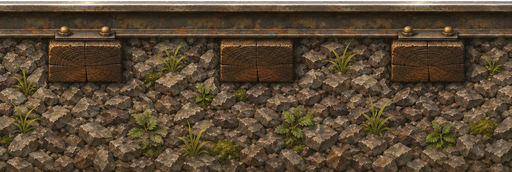
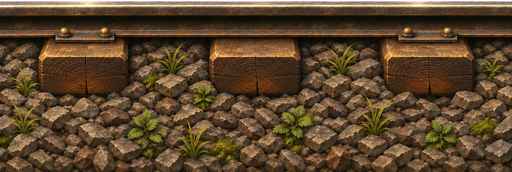
Комплект П4 «Депо как комната» для GPT; вариант тайла пути «объёмнее» принят; пожелание про объём в инструкции для GPT

diff --git a/tools/art_sources/briefs/P4_depot_room/BRIEF_RU.md b/tools/art_sources/briefs/P4_depot_room/BRIEF_RU.md
@@ -1,0 +1,98 @@
+# Комплект П4 «Депо как комната»: промпты для GPT
+
+Сейчас интерьер депо рисуется кодом: плоский градиент, «доски» полосками, тёмные стропила и лампы концентрическими кругами. Помещение читается как лесной путь со стеной, а не как мастерская.
+
+## Что сейчас не так (кадры в этой папке)
+
+- `ref_depot_now.jpg`: **красная рамка** это стена с лампами (то, что надо заменить), **синяя линия** это линия пола: ниже неё уже стоят новые рельс и земля из пакета «Дорога». Состав стоит на рельсе в левой половине экрана, справа панель с вкладками закрывает правую половину.
+- `ref_depot_exterior.jpg`: как депо выглядит снаружи (образец дерева, зелени и латуни).
+- `ref_style_steam.jpg`, `ref_style_handcar.jpg`: образцы стиля.
+
+**Важное требование (просьба владельца 04.11.2026): больше объёма.** Крупные, выпуклые формы, глубокие тени, чёткий рельеф дерева и металла, сильное различие света и тени, как в последнем тайле пути (`track_tile_depth`): он понравился больше плоского варианта. В каждый промпт это уже вписано.
+
+Как это работает в игре: интерьер собирается **слоями**, поэтому прошу не одну картинку, а пять частей: стена (бесшовная плитка), стропила (бесшовная полоса), предметы на стене и полу (лист 3×3), пол в разрезе (бесшовная полоса), свечение лампы (на чёрном).
+
+## Что сделать
+
+1. Новый чат. Если GPT читает репозиторий через подключение, фраза:
+
+```
+Открой в репозитории CPUadmin/ForestRail (ветка main) файл tools/art_sources/briefs/P4_depot_room/TASK_FOR_GPT.md, посмотри кадры ref_* рядом с ним и выполни задание: пять картинок по очереди.
+```
+
+2. Если картинки из репозитория он не открывает, приложите четыре файла `ref_*` из этой папки и вставьте блоки из `PROMPTS_FOR_GPT.txt`.
+3. Файлы `depot_wall_tile.png`, `depot_rafters_tile.png`, `depot_props_sheet.png`, `depot_floor_tile.png`, `depot_lamp_glow.png` сохраните в `tools/art_sources/inbox/P4_depot_room/`. Я увижу их сам.
+
+## Картинки
+
+### A1 `depot_wall_tile.png`: дощатая стена (3:2, на весь кадр, бесшовная)
+
+```text
+Attached are references for the pack "P4 depot room". ref_depot_now.jpg shows the game now: the RED box is the code-drawn interior wall with fake lamp glows (to be replaced by painted art), the BLUE line is the floor line. ref_depot_exterior.jpg is how the depot looks from outside. ref_style_steam.jpg and ref_style_handcar.jpg are the STYLE ANCHORS: match their painterly brush texture, warm worn look, palette and soft light exactly. The interior is built from LAYERS, so I will ask for five separate images one by one. ALL the art must have STRONG VOLUME: bold rounded relief, deep shadows between planks and beams, clearly lit and shaded sides, like the heavy relief of the latest track tile.
+```
+
+```text
+Asset: depot_wall_tile. Format: landscape 3:2. Full-bleed, no magenta, no background: the picture fills the whole frame.
+A SEAMLESSLY TILEABLE horizontal wall section of the inside of an old timber railway depot workshop, strict flat frontal elevation (no perspective): the left and right edges must continue into each other perfectly because the image repeats side by side.
+Content: heavy vertical pine planks, weathered honey-brown, with deep dark gaps between them, knots, cracks, nail heads, soot streaks and age marks, strong rounded relief, a clear light side and shade side on every plank; ONE massive vertical timber post centered exactly in the middle of the image (about 12 percent of the width wide) with an iron strap bracket and bolts, so that the repeat gives a post every tile; along the bottom edge a thick dark plinth board (skirting), about 8 percent of the frame height, with its lower edge exactly at the bottom of the image; the top edge of the image continues the planks upward without any ceiling.
+Warm lamplight from the upper left, a slightly darker lower third. Hand-painted, painterly brush texture, early 20th century Russian northern railway workshop, same style as the attached steam locomotive. No windows, no tools, no letters, no numbers, no people, nothing else on the wall.
+```
+Назначение: стена за составом вместо плоского градиента с полосками.
+
+### A2 `depot_rafters_tile.png`: стропила и балки потолка (3:2, пурпурный фон ниже балок, бесшовная)
+
+```text
+Asset: depot_rafters_tile. Format: landscape 3:2. Background: flat pure magenta #FF00FF below the beams, no shadow, no gradient.
+A SEAMLESSLY TILEABLE horizontal strip (left and right edges continue into each other perfectly) of the roof structure inside an old timber depot, strict flat frontal view, filling the full width edge to edge. The strip occupies only the TOP 38 percent of the frame; everything below is flat magenta.
+Content: at the very top a dark roof boards ceiling, below it one heavy horizontal crossbeam (tie beam) running across the whole width, about 12 percent of the frame height, with chamfered edges, iron straps and bolts; at the center of the tile a heavy king-post truss: two thick diagonal braces going from the beam down and outwards to the sides, ending in iron brackets at 25 and 75 percent of the width, and a vertical hanging iron ring in the middle where a lamp is hung. STRONG VOLUME: deep shadows under the beam, rounded relief of the wood, clearly lit upper left sides. Warm weathered dark brown and honey wood, soot. Hand-painted, painterly brush texture, same style as the attached references. No letters, nothing else.
+```
+Назначение: стропила вместо тёмных треугольников и полосы.
+
+### A3 `depot_props_sheet.png`: предметы мастерской (лист 3×3, пурпурный фон)
+
+```text
+Asset: depot_props_sheet. Format: square 1:1. Sheet 3 by 3, one flat pure magenta #FF00FF background for the whole sheet, exactly nine objects, one per cell, centered, same scale family, wide margins, no overlaps, no cell lines, no labels, no ground shadows.
+Nine objects of an old railway workshop, each in strict flat frontal or side view, hand-painted, painterly, warm and slightly worn, with STRONG VOLUME (bold rounded relief, deep shadows, clear lit and shaded sides), same style as the attached references:
+1 a tall wooden window in a heavy frame with small panes, warm daylight glowing through, with a stone sill;
+2 a hanging industrial lamp: a conical dark green enamel shade with a brass cap on a short chain, a warm bulb glowing inside;
+3 a wooden wall shelf with oil cans, a brass funnel, jars of bolts and a coil of rope;
+4 a wall tool rack with a big wrench, a hammer, a long saw and a crowbar hung on pegs;
+5 a heavy workbench with a cast-iron vise, a wooden top and a drawer, seen from the front;
+6 a wooden barrel with iron hoops and a tin funnel on top;
+7 a wooden ladder leaning, seen from the side;
+8 a stack of three spare railway wheels with spokes leaning on a wooden crate;
+9 a hanging coil of heavy chain on a hook with a hook block.
+No letters, no numbers, no people.
+```
+Назначение: окно, лампа, полка, инструменты, верстак, бочка, лестница, колёса, цепь: я расставляю их по стене и полу в свободных от панелей местах.
+
+### A4 `depot_floor_tile.png`: пол в разрезе (3:2, пурпурный фон над полом, бесшовный)
+
+```text
+Asset: depot_floor_tile. Format: landscape 3:2. Background: flat pure magenta #FF00FF above the floor surface only, no shadow.
+A SEAMLESSLY TILEABLE horizontal strip (left and right edges continue into each other perfectly): the cut of the floor of an old railway depot workshop, strict flat side elevation, filling the full width edge to edge. The top edge is the flat floor surface, a perfectly straight horizontal line, against pure magenta above it.
+From the top down: a heavy worn plank floor, the thick plank ends seen as a row of rectangles with deep dark gaps, oil stains, scratches, iron nails and a few cracked boards, about 20 percent of the frame height; below it big stone foundation blocks with mortar joints and moss in the joints, then darker packed earth and gravel, getting gradually darker towards the bottom edge so that it can fade into shadow. STRONG VOLUME: deep shadows in the gaps, rounded relief of the wood and the stones, light from the upper left. Hand-painted, painterly brush texture, same style as the attached references. No rails, no letters, nothing else.
+```
+Назначение: пол внутри депо вместо земли с травой (рельс остаётся из пакета «Дорога»).
+
+### A5 `depot_lamp_glow.png`: свет лампы (квадрат, чёрный фон)
+
+```text
+Asset: depot_lamp_glow. Format: square 1:1. Background: flat pure black #000000.
+A soft warm round light pool as cast by a hanging workshop lamp on a wooden wall: a bright warm white-yellow core in the center, fading smoothly through amber to nothing at the edges, with faint soft dust motes and a gentle slightly uneven edge, no hard shapes, perfectly centered and symmetrical, fully faded to pure black before it reaches the frame edges. Painterly, no lamp, no objects, no letters.
+```
+Назначение: настоящий мягкий свет под лампой вместо концентрических кругов (чёрное станет прозрачностью).
+
+## Чек-лист приёмки пакета
+
+1. Нет букв и цифр.
+2. **A1:** на всю картинку, пурпурного нет; один столб строго по центру; низ с цоколем; шов по краям стыкуется.
+3. **A2:** балки только в верхней трети, ниже пурпурный; шов стыкуется.
+4. **A3:** ровно девять предметов по одному в ячейке.
+5. **A4:** сверху ровная линия пола на пурпурном; ниже доски, камень, земля; внизу темнее.
+6. **A5:** светлое пятно на чёрном, до краёв гаснет.
+7. Выраженный объём и рельеф у всех, стиль как у образцов. Если что-то не так, одной фразой из `docs/GPT_ART_BRIEF_RU.md`, раздел 10.
+
+## Что делаю я после получения
+
+Принимаю (вырезаю фон, сглаживаю шов, режу лист), делаю в депо слои: стена с потолком и стропилами, пол в разрезе по линии пола, предметы по свободным местам (не под карточкой и панелью), лампа с настоящим светом; проверяю в трёх размерах окна, показываю кадры «до и после».

diff --git a/tools/art_sources/briefs/P4_depot_room/TASK_FOR_GPT.md b/tools/art_sources/briefs/P4_depot_room/TASK_FOR_GPT.md
@@ -1,0 +1,90 @@
+# TASK FOR GPT: pack П4 (Депо как комната)
+
+You are the art generator for "Лесная колея" (Forest Rail), a cozy 2D side-view narrow-gauge forest railway game. Produce the images below ONE BY ONE, one finished image per message, following the style rules in the project instructions (hand-painted painterly look, warm and slightly worn, forest green #466c51, charcoal steel #29383b, honey wood, cream #f5ecd6, aged brass #bb964f, soft light from the upper left, strict flat side view, no letters or numbers, subject centered with margins, flat pure magenta #FF00FF background unless another is named, no shadows or glow touching the background).
+
+## References
+Open each reference (or use the files the owner attached). The two ref_style_* images are the STYLE ANCHORS; match them exactly.
+
+If you read the repository through a GitHub connection, the same files are in the repo at tools/art_sources/briefs/P4_depot_room/ :
+
+- tools/art_sources/briefs/P4_depot_room/ref_depot_exterior.jpg
+- tools/art_sources/briefs/P4_depot_room/ref_depot_now.jpg
+- tools/art_sources/briefs/P4_depot_room/ref_style_handcar.jpg
+- tools/art_sources/briefs/P4_depot_room/ref_style_steam.jpg
+
+If the repository is public, the direct links are:
+
+- https://raw.githubusercontent.com/CPUadmin/ForestRail/main/tools/art_sources/briefs/P4_depot_room/ref_depot_exterior.jpg
+- https://raw.githubusercontent.com/CPUadmin/ForestRail/main/tools/art_sources/briefs/P4_depot_room/ref_depot_now.jpg
+- https://raw.githubusercontent.com/CPUadmin/ForestRail/main/tools/art_sources/briefs/P4_depot_room/ref_style_handcar.jpg
+- https://raw.githubusercontent.com/CPUadmin/ForestRail/main/tools/art_sources/briefs/P4_depot_room/ref_style_steam.jpg
+
+## First message of the pack
+
+```text
+Attached are references for the pack "P4 depot room". ref_depot_now.jpg shows the game now: the RED box is the code-drawn interior wall with fake lamp glows (to be replaced by painted art), the BLUE line is the floor line. ref_depot_exterior.jpg is how the depot looks from outside. ref_style_steam.jpg and ref_style_handcar.jpg are the STYLE ANCHORS: match their painterly brush texture, warm worn look, palette and soft light exactly. The interior is built from LAYERS, so I will ask for five separate images one by one. ALL the art must have STRONG VOLUME: bold rounded relief, deep shadows between planks and beams, clearly lit and shaded sides, like the heavy relief of the latest track tile.
+```
+
+## Images
+
+### 1. depot_wall_tile.png
+
+Format: 3:2. Background: full-bleed.
+
+```text
+Asset: depot_wall_tile. Format: landscape 3:2. Full-bleed, no magenta, no background: the picture fills the whole frame.
+A SEAMLESSLY TILEABLE horizontal wall section of the inside of an old timber railway depot workshop, strict flat frontal elevation (no perspective): the left and right edges must continue into each other perfectly because the image repeats side by side.
+Content: heavy vertical pine planks, weathered honey-brown, with deep dark gaps between them, knots, cracks, nail heads, soot streaks and age marks, strong rounded relief, a clear light side and shade side on every plank; ONE massive vertical timber post centered exactly in the middle of the image (about 12 percent of the width wide) with an iron strap bracket and bolts, so that the repeat gives a post every tile; along the bottom edge a thick dark plinth board (skirting), about 8 percent of the frame height, with its lower edge exactly at the bottom of the image; the top edge of the image continues the planks upward without any ceiling.
+Warm lamplight from the upper left, a slightly darker lower third. Hand-painted, painterly brush texture, early 20th century Russian northern railway workshop, same style as the attached steam locomotive. No windows, no tools, no letters, no numbers, no people, nothing else on the wall.
+```
+
+### 2. depot_rafters_tile.png
+
+Format: 3:2. Background: magenta.
+
+```text
+Asset: depot_rafters_tile. Format: landscape 3:2. Background: flat pure magenta #FF00FF below the beams, no shadow, no gradient.
+A SEAMLESSLY TILEABLE horizontal strip (left and right edges continue into each other perfectly) of the roof structure inside an old timber depot, strict flat frontal view, filling the full width edge to edge. The strip occupies only the TOP 38 percent of the frame; everything below is flat magenta.
+Content: at the very top a dark roof boards ceiling, below it one heavy horizontal crossbeam (tie beam) running across the whole width, about 12 percent of the frame height, with chamfered edges, iron straps and bolts; at the center of the tile a heavy king-post truss: two thick diagonal braces going from the beam down and outwards to the sides, ending in iron brackets at 25 and 75 percent of the width, and a vertical hanging iron ring in the middle where a lamp is hung. STRONG VOLUME: deep shadows under the beam, rounded relief of the wood, clearly lit upper left sides. Warm weathered dark brown and honey wood, soot. Hand-painted, painterly brush texture, same style as the attached references. No letters, nothing else.
+```
+
+### 3. depot_props_sheet.png
+
+Format: 1:1. Background: magenta.
+
+```text
+Asset: depot_props_sheet. Format: square 1:1. Sheet 3 by 3, one flat pure magenta #FF00FF background for the whole sheet, exactly nine objects, one per cell, centered, same scale family, wide margins, no overlaps, no cell lines, no labels, no ground shadows.
+Nine objects of an old railway workshop, each in strict flat frontal or side view, hand-painted, painterly, warm and slightly worn, with STRONG VOLUME (bold rounded relief, deep shadows, clear lit and shaded sides), same style as the attached references:
+1 a tall wooden window in a heavy frame with small panes, warm daylight glowing through, with a stone sill;
+2 a hanging industrial lamp: a conical dark green enamel shade with a brass cap on a short chain, a warm bulb glowing inside;
+3 a wooden wall shelf with oil cans, a brass funnel, jars of bolts and a coil of rope;
+4 a wall tool rack with a big wrench, a hammer, a long saw and a crowbar hung on pegs;
+5 a heavy workbench with a cast-iron vise, a wooden top and a drawer, seen from the front;
+6 a wooden barrel with iron hoops and a tin funnel on top;
+7 a wooden ladder leaning, seen from the side;
+8 a stack of three spare railway wheels with spokes leaning on a wooden crate;
+9 a hanging coil of heavy chain on a hook with a hook block.
+No letters, no numbers, no people.
+```
+
+### 4. depot_floor_tile.png
+
+Format: 3:2. Background: magenta.
+
+```text
+Asset: depot_floor_tile. Format: landscape 3:2. Background: flat pure magenta #FF00FF above the floor surface only, no shadow.
+A SEAMLESSLY TILEABLE horizontal strip (left and right edges continue into each other perfectly): the cut of the floor of an old railway depot workshop, strict flat side elevation, filling the full width edge to edge. The top edge is the flat floor surface, a perfectly straight horizontal line, against pure magenta above it.
+From the top down: a heavy worn plank floor, the thick plank ends seen as a row of rectangles with deep dark gaps, oil stains, scratches, iron nails and a few cracked boards, about 20 percent of the frame height; below it big stone foundation blocks with mortar joints and moss in the joints, then darker packed earth and gravel, getting gradually darker towards the bottom edge so that it can fade into shadow. STRONG VOLUME: deep shadows in the gaps, rounded relief of the wood and the stones, light from the upper left. Hand-painted, painterly brush texture, same style as the attached references. No rails, no letters, nothing else.
+```
+
+### 5. depot_lamp_glow.png
+
+Format: 1:1. Background: black.
+
+```text
+Asset: depot_lamp_glow. Format: square 1:1. Background: flat pure black #000000.
+A soft warm round light pool as cast by a hanging workshop lamp on a wooden wall: a bright warm white-yellow core in the center, fading smoothly through amber to nothing at the edges, with faint soft dust motes and a gentle slightly uneven edge, no hard shapes, perfectly centered and symmetrical, fully faded to pure black before it reaches the frame edges. Painterly, no lamp, no objects, no letters.
+```
+
+## Delivery
+After each image say its exact file name (as above) and which background you used. When all are done, list the file names in order. The owner saves them into `tools/art_sources/inbox/P4_depot_room/` with exactly these names. If an image fails the checks in the brief (letters, shadows, cropped subject, checkerboard instead of a flat background), redo it once before showing it.

diff --git a/docs/GPT_ART_BRIEF_RU.md b/docs/GPT_ART_BRIEF_RU.md
@@ -19,6 +19,7 @@ STYLE (always, for every image)
 - Hand-painted 2D game art, painterly brush texture, warm and slightly worn, cozy indie game. Russian northern forest narrow-gauge railway, early 20th century.
 - Palette: forest green #466c51, dark charcoal steel #29383b, warm honey wood, paper cream #f5ecd6, aged brass #bb964f, brake red #a64d3b, muted sage and blue-green forest, terracotta accents. No neon, no saturated plastic colors.
 - Light: soft, warm, from the upper left; gentle rim light; no harsh black shadows.
+- VOLUME: the owner wants a strong sense of volume. Bold rounded relief, deep shadows between parts, a clearly lit side and a clearly shaded side on every form, heavy materials (wood, iron, stone) with pronounced texture; avoid flat, smooth or thin-looking results.
 - Camera: STRICT SIDE ELEVATION for vehicles, wagons, buildings and props (flat orthographic, wheels perfectly circular, rails horizontal, no perspective, no isometric, no top-down, no three-quarter view). Scenic backgrounds may have layered atmospheric depth, but the track stays horizontal.
 - Forbidden: photorealism, 3D render look, pixel art, glossy plastic, fantasy, modern objects, real brands, people (unless the request says so), smoke-stack steam clichés, watermarks, signatures, logos.
 
@@ -53,7 +54,7 @@ REPLY FORMAT
 
 ```text
 Role: art generator for "Лесная колея", a cozy 2D side-view narrow-gauge forest railway game. One finished image per request, ready for cut-out.
-Style: hand-painted painterly 2D, warm, slightly worn, early 20th century Russian northern railway. Palette: forest green #466c51, charcoal steel #29383b, honey wood, cream #f5ecd6, aged brass #bb964f, brake red #a64d3b. Soft warm light from upper left. Vehicles, buildings, props in STRICT flat SIDE ELEVATION (no perspective, no isometric, round wheels, horizontal rails). No photorealism, 3D, pixel art, neon, plastic, people (unless asked), logos, watermarks.
+Style: hand-painted painterly 2D, warm, slightly worn, early 20th century Russian northern railway. Palette: forest green #466c51, charcoal steel #29383b, honey wood, cream #f5ecd6, aged brass #bb964f, brake red #a64d3b. Soft warm light from upper left. Strong sense of volume: bold rounded relief, deep shadows, clearly lit and shaded sides, heavy pronounced material texture, nothing flat. Vehicles, buildings, props in STRICT flat SIDE ELEVATION (no perspective, no isometric, round wheels, horizontal rails). No photorealism, 3D, pixel art, neon, plastic, people (unless asked), logos, watermarks.
 Text: draw no letters or numbers unless I give exact quoted text; leave signs and labels blank.
 Cut-out: one centered subject, 8% margin, nothing cropped. Real transparent PNG if possible, otherwise flat pure magenta #FF00FF background with no shadow, gradient or glow; light effects on flat pure black. No halo or fringe.
 Format: only square, landscape 3:2 or portrait 2:3. Sheets: equal grid cells, one object per cell, same scale, one flat background.

diff --git a/tools/art_sources/reports/П1_20261104_173218.md b/tools/art_sources/reports/П1_20261104_173218.md
@@ -1,0 +1,11 @@
+# Отчёт приёмки 20261104_173218
+
+## Пакет П1 (P1_road_ground)
+
+| id | файл | найден | размер | фон | замечания |
+|---|---|---|---|---|---|
+| P1-A1 | track_tile.png | track_tile.png | 1536x1024 | magenta | шов тайла в порядке |
+| P1-A2 | ground_tile.png | ground_tile.png | 1536x1024 | magenta | шов тайла в порядке |
+| P1-A3 | trackside_sheet.png | trackside_sheet.png | 1254x1254 | magenta | в порядке |
+| P1-A1b | track_tile_depth.png | track_tile_depth.png | 1536x1024 | magenta | шов тайла в порядке |
+
